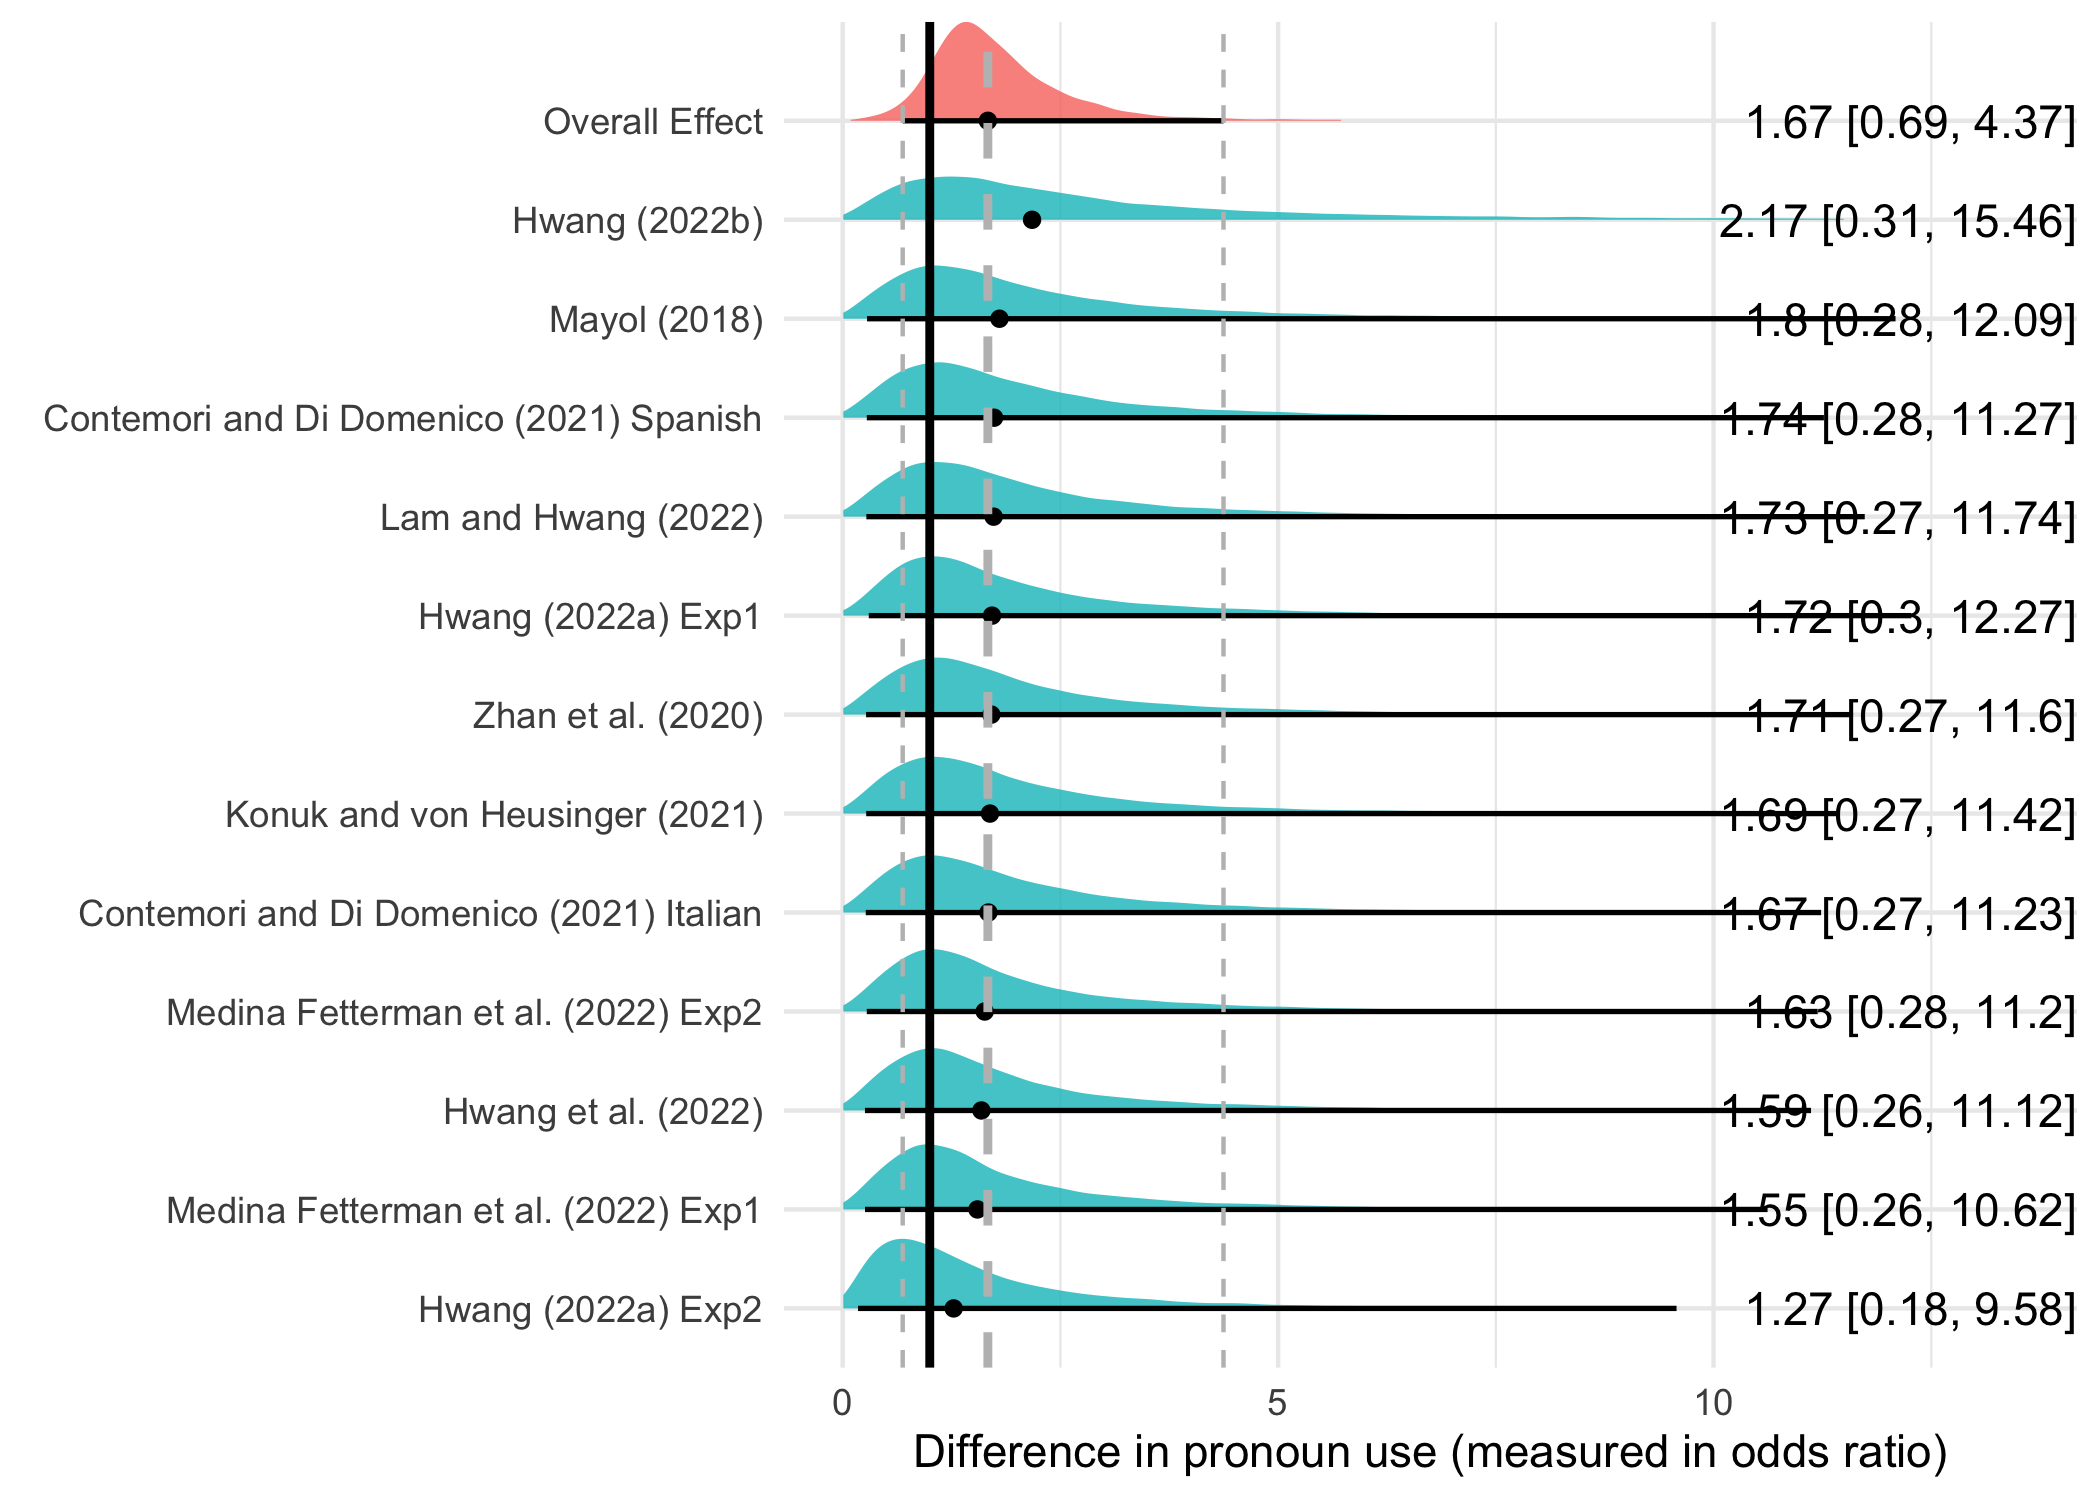
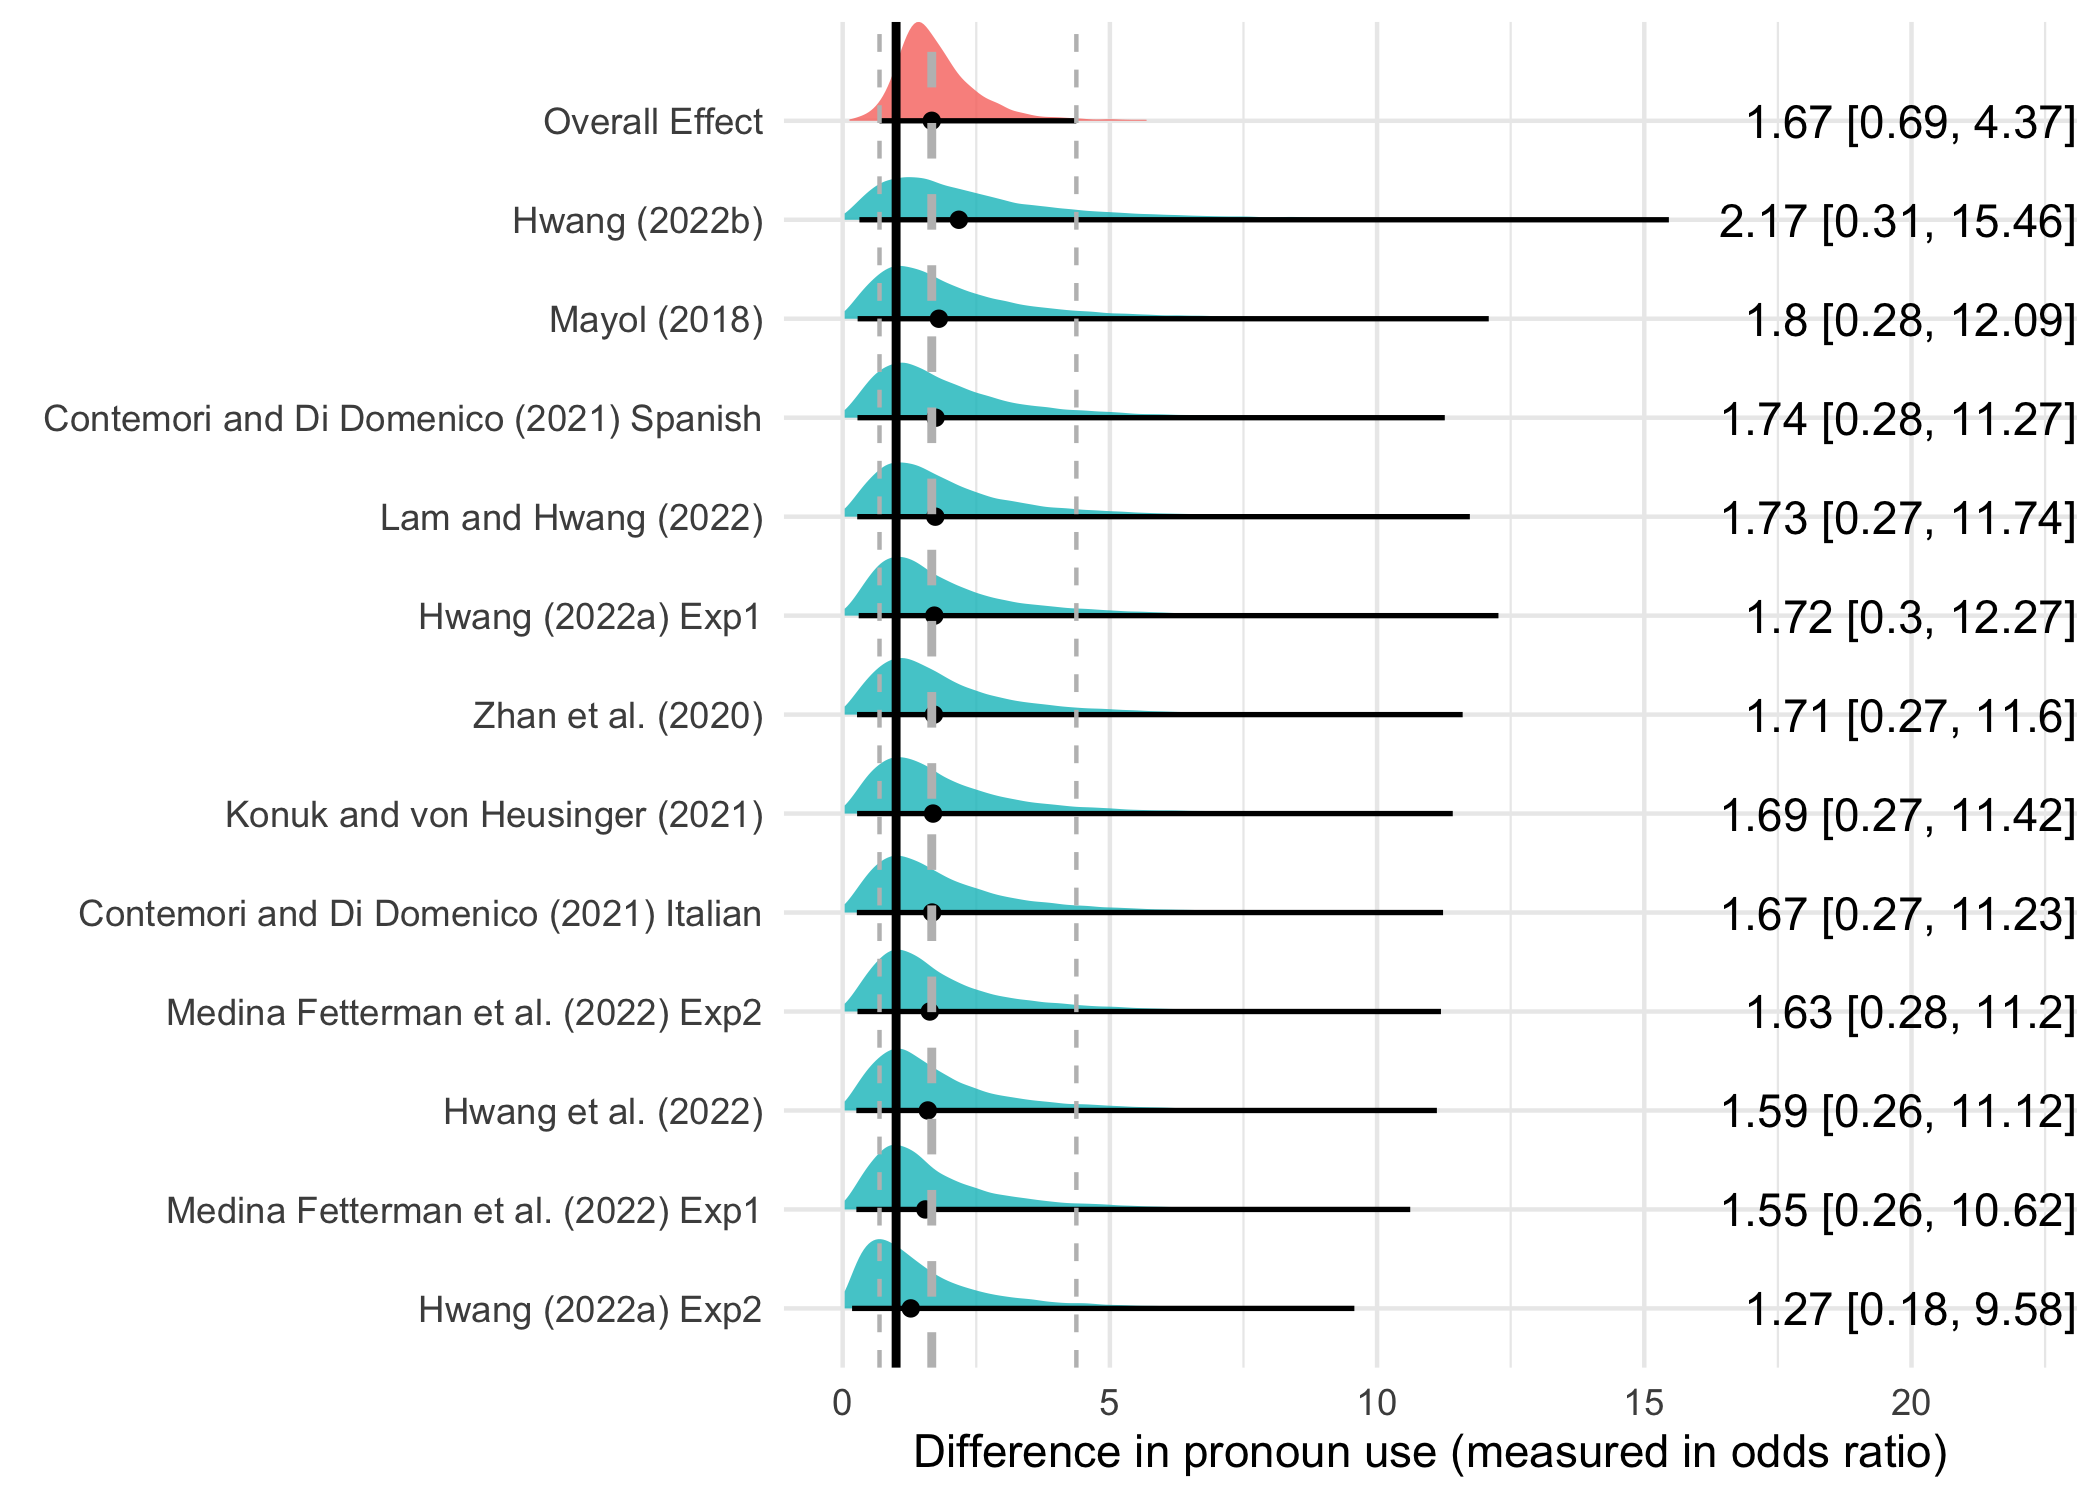
forest plots2

diff --git a/content/forests/planting-trees-for-language.html b/content/forests/planting-trees-for-language.html
@@ -415,7 +415,7 @@ pre > code.sourceCode > span > a:first-child::before { text-decoration: underlin
 <span id="cb8-33"><a href="#cb8-33" aria-hidden="true" tabindex="-1"></a>  <span class="fu">labs</span>(<span class="at">x =</span> <span class="st">"Difference in pronoun use (measured in odds ratio)"</span>, <span class="co"># summary measure</span></span>
 <span id="cb8-34"><a href="#cb8-34" aria-hidden="true" tabindex="-1"></a>       <span class="at">y =</span> <span class="fu">element_blank</span>()) <span class="sc">+</span></span>
 <span id="cb8-35"><a href="#cb8-35" aria-hidden="true" tabindex="-1"></a>  </span>
-<span id="cb8-36"><a href="#cb8-36" aria-hidden="true" tabindex="-1"></a>  <span class="fu">xlim</span>(<span class="dv">0</span>,<span class="fl">13.5</span>) <span class="sc">+</span></span>
+<span id="cb8-36"><a href="#cb8-36" aria-hidden="true" tabindex="-1"></a>  <span class="fu">xlim</span>(<span class="dv">0</span>,<span class="dv">22</span>) <span class="sc">+</span></span>
 <span id="cb8-37"><a href="#cb8-37" aria-hidden="true" tabindex="-1"></a>  <span class="fu">theme_minimal</span>() </span></code><button title="Copy to Clipboard" class="code-copy-button"><i class="bi"></i></button></pre></div>
 </details>
 <div class="cell-output-display">
@@ -429,6 +429,35 @@ pre > code.sourceCode > span > a:first-child::before { text-decoration: underlin
 <summary>Code</summary>
 <div class="sourceCode cell-code" id="cb9"><pre class="sourceCode r code-with-copy"><code class="sourceCode r"><span id="cb9-1"><a href="#cb9-1" aria-hidden="true" tabindex="-1"></a><span class="fu">ggsave</span>(<span class="st">'forest-pro-drop.png'</span>)</span></code><button title="Copy to Clipboard" class="code-copy-button"><i class="bi"></i></button></pre></div>
 </details>
+</div>
+<p><strong>Final comment:</strong> Hwang (2022b) is making us extend the x-axis a lot longer than would otherwise we visually appealing. What do you think of clipping the CI for this study (saying so in the caption) so that we don’t have to have so much white space across plots?</p>
+<p>Generating file with only R-code in this document:</p>
+<div class="cell">
+<details class="code-fold">
+<summary>Code</summary>
+<div class="sourceCode cell-code" id="cb10"><pre class="sourceCode r code-with-copy"><code class="sourceCode r"><span id="cb10-1"><a href="#cb10-1" aria-hidden="true" tabindex="-1"></a>knitr<span class="sc">::</span><span class="fu">purl</span>(<span class="st">'planting-trees-for-language.qmd'</span>)</span></code><button title="Copy to Clipboard" class="code-copy-button"><i class="bi"></i></button></pre></div>
+</details>
+<div class="cell-output cell-output-stdout">
+<pre><code>1/16                   
+2/16 [unnamed-chunk-17]
+3/16                   
+4/16 [unnamed-chunk-18]
+5/16                   
+6/16 [unnamed-chunk-19]
+7/16                   
+8/16 [unnamed-chunk-20]
+9/16                   
+10/16 [unnamed-chunk-21]
+11/16                   
+12/16 [unnamed-chunk-22]
+13/16                   
+14/16 [unnamed-chunk-23]
+15/16                   
+16/16 [unnamed-chunk-24]</code></pre>
+</div>
+<div class="cell-output cell-output-stdout">
+<pre><code>[1] "planting-trees-for-language.R"</code></pre>
+</div>
 </div>
 </section>
 
